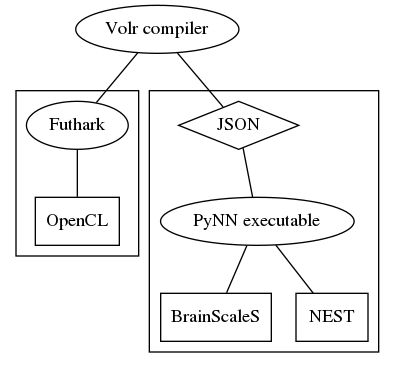
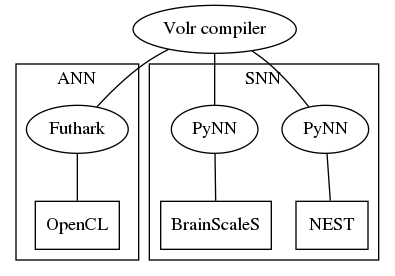
Added notes on implementation and shortened for Martin

diff --git a/report/chapters/volr/implementation.tex b/report/chapters/volr/implementation.tex
@@ -14,11 +14,9 @@ PyNN has been chosen for its general purpose API that translates to both the
 neuromorphic BrainScaleS \index{BrainScaleS} backend and the NEST 
 \index{NEST} simulator.
 \\[0.2cm]
-Figure \ref{fig:volr-architecture} shows flow from the compiler
+Figure \ref{fig:volr-architecture} shows the workflow from the compiler
 down to each backend.
-The following section explains the diagram one component at the time, 
-with a focus on the model semantics are 
-retained throughout each step.
+The following section explains the diagram one component at the time.
 
 \begin{figure}
   \centering
@@ -153,7 +151,8 @@ weight configurations.
 Because of its functional nature, layers can simply be joined 
 sequentially by function composision.
 
-The library has been modified to fit the additions in the thesis.
+The library from \cite{Minh2018} has been modified to fit the
+additions in the thesis.
 In particular, a \textit{replicate} and a \textit{merge} layer has
 been added, to account for the parallel operator ($\ominus$).
 A connection that allows two parallel networks to connect to other
@@ -274,51 +273,142 @@ PyNN is normally configured to work with Python, so converting the
 
 
 \subsection{PyNN backend}
+The interpretation to PyNN\index{PyNN} is done in two steps: a
+conversion from the \gls{DSL} into a \gls{SNN} representation,
+and a translation between that representation into backend-specific
+Python code.
+The steps are decoupled to enforce the same semantics on the code
+generation for the neuromorphic and simulation backends.
+While PyNN is designed as a simulator-dependent \gls{API} 
+it is unlikely that the backends will fully support it in the
+immediate future (see section \ref{sec:SNN-simulators}).
 
+\subsubsection{\gls{SNN} translation step}
+Before Python code for PyNN can be generated a number of assumptions
+has to be met. 
+In particular the types of connections (referred to as projections in PyNN)
+and neuron models has to be described with a full set of neuron parameters.
+The modelling of this happens in yet another Haskell code base.
+The neuron parameters for an example LIF\index{LIF} neuron is seen in listing
+\ref{lst:lif-cond-exp} with their corresponding default values
+below\footnote{
+The current neuron models and their default parameters are taken from PyNN's
+standard models, available at
+\url{http://neuralensemble.org/docs/PyNN/standardmodels.html}.
+}.
 
+\lstset{language=,caption={A LIF neuron with exponential decay and
+  conductance-based synapses, modelled in Haskell.},label=lst:lif-cond-exp}
+\begin{lstlisting}
+data NeuronType =
+    = IFCondExp {
+        _v_rest :: Float, -- ^ resting potential
+        _cm :: Float, -- ^ membrane capacitance
+        _tau_m :: Float, -- ^ membrane time constant
+        _tau_refrac :: Float, -- ^ refractory time
+        _tau_syn_E :: Float, -- ^ excitatory synaptic time constant
+        _tau_syn_I :: Float, -- ^ inhibitory synaptic time constant
+        _e_rev_E :: Float, -- ^ excitatory reversal potential
+        _e_rev_I :: Float, -- ^ inhibitory reversal potential
+        _v_thresh :: Float, -- ^ spike initiation threshold
+        _v_reset :: Float, -- ^ reset value for membrane potential after a spike
+        _i_offset :: Float -- ^ offset current
+    }
 
+if_cond_exp :: NeuronType
+if_cond_exp = IFCondExp {
+    _v_rest = -65.0,
+    _cm = 1.0,
+    _tau_m = 20.0,
+    _tau_refrac = 0.0,
+    _tau_syn_E = 5.0,
+    _tau_syn_I = 5.0,
+    _e_rev_E = 0.0,
+    _e_rev_I = -70.0,
+    _v_thresh = -50.0,
+    _v_reset = -65.0,
+    _i_offset = 0.0
+}
+\end{lstlisting}
 
-% \subsection{Spiking neural network simulations via PyNN} \label{sec:volr-pynn}
-% The Python neural network simulation interface PyNN is designed as a
-% "simulator-independent language for building neuronal network models"
-% \autocite{PyNN2018}.
-% It aims to reduce the problem of diverse, and occasionally unique, descriptions
-% of neural network experiments for different simulation back-ends \autocite{Davison2009}.
-% PyNN has been adapted by a number of simulators, including the NEST simulation
-% platform and the neuromorphic BrainScaleS wafer system
-% \autocite{Davison2009, Helias2012, Schmitt2017}.
+These neuron models form the basis of populations, which is determined by the
+neuron model and the number of neurons in the population.
+Populations can be understood as nodes in the network graph, along with
+spike sources, which generates stimulus per the input data.
+The definition of nodes as either populations or spike sources is shown in
+listing \ref{lst:node}.
 
-% There are still simulator-dependent configurations that seems unlikely to be
-% adopted into PyNN in the immediate future\footnote{
-%   Particularly hardware mapping configurations are hard to abstract in a general
-%   interface.
-% }.
-% For that reason Volr provides simulation-specific PyNN scripts that can
-% interpret the model in the context of each simulation target.
-% A middleware, dubbed \gls{Myelin}, was invented to translate the \gls{NN} model
-% into a static intermediate representation in JSON.
-% The JSON standard was chosen for the task because of its concise syntax while
-% still retaining human readability.
+\lstset{language=,caption=The definition of a node as either a population or a
+spike source.,label=lst:node}
+\begin{lstlisting}
+data Node = Population {
+        _numNeurons :: Integer,
+        _neuronType :: NeuronType
+    }
+    | SpikeSourcePoisson {
+        _rate :: Float,
+        _start :: Integer
+    }
+\end{lstlisting}
+
+The nodes in the spiking graph is connected through edges shown in 
+listing \ref{lst:projection}.
+
+\lstset{language=,caption=The definition of an edge as a projection between
+two nodes with a certain effect.,label=lst:projection}
+\begin{lstlisting}
+data Edge =
+      Projection {
+          _effect :: ProjectionEffect,
+          _input :: Node,
+          _output :: Node
+\end{lstlisting}
+
+The type of the edges are determined by a projection effect that is
+not listed here, but available in appendix \ref{app:implementation}.
+This effect simply describes the connectivity between two nodes---which
+for now is exclusively all-to-all---and the type of the synapses--which
+for now is exclusively constant excitatory weights.
+
+The model here allows us to retain the connection graph from the \gls{DSL}
+description.
+The main difference being the activation functions which changes with the
+neuron types.
+
+\subsubsection{PyNN code generation}
+The final step in the translation of the \gls{DSL} to PyNN code maps the
+\gls{SNN} model from above to executable Python code.
+Similar to the Futhark backend the PyNN API has been augmented to 
+incorporate learning, further described in the section ``Learning in PyNN''.
+Listing \ref{lst:PyNN-MNIST} shows an example of a non-executable MNIST network.
+When activating the input node \texttt{node0} the connections are fed through
+the network to the \texttt{node2} output node.
+Each projection is initiated with random normal distributed weights, similar
+to the Futhark networks.
+
+\lstset{language=,caption={A simple MNIST network in Python from the network in figure
+\ref{fig:volr-examples}. The dots illustrate the neuron parameters, given as a
+dictionary, as they appear in listing
+\ref{lst:lif-cond-exp}.},label=lst:PyNN-MNIST}
+\begin{lstlisting}
+node0 = LearningNode(Population(100, LIFCondExp(), ...))
+node1 = LearningNode(Population(50, LIFCondExp(), ...))
+node2 = LearningNode(Population(10, LIFCondExp(), ...))
+edge0 = Projection(node0, node1, AllToAllConnector())
+edge0.set(weight=numpy.random.normal)
+edge1 = Projection(node1, node2, AllToAllConnector())
+edge1.set(weight=numpy.random.normal)
+\end{lstlisting}
 
 % The advantage of the static experiment representation being, that the experiment
 % easily a) transports to the target PyNN scripts without losing any information,
 % and b) duplexes between several experiment; the same experiment setup is
 % trivial to setup on multiple targets at once.
+\subsubsection{Code header for BrainScaleS} \label{ref:Cairo}
+%Because of the incompatible backends, each code is injected with a  
+%preample to perform the necessary setup steps 
+Describe hardware mappings for BrainScaleS
 
-% The correct execution of the experiments relies on the PyNN scripts to exploit
-% the simulator to represent the Volr model as accurately as possible.
-% Fortunately PyNN is designed to cover exactly such a use case, so properties
-% related to the \gls{NN} models itself (such as network topology and population
-% attributes) were faithfully reproduced across the simulators.
-% However, the simulators deviate in a number of ways that are relevant to
-% mention.
-% The following two sections explains the steps necessary to achieve accurate
-% experiment environments in \gls{NEST} and \gls{BrainScaleS}.
-
-% \subsubsection{Translation to PyNN} \label{sec:volr-translation}
-
-% \subsubsection{Translation to NEST} \label{sec:volr-NEST}
-% ... To be continued ...
-% \subsubsection{Translation to BrainScaleS} \label{sec:volr-BrainScaleS}
-% ... To be continued ...
-\label{ref:Cairo}
+\subsubsection{Learning in PyNN}
+\label{ref:PyNN-augmentation}
+Describe PyNN learning API

diff --git a/report/chapters/volr/volr.tex b/report/chapters/volr/volr.tex
@@ -8,7 +8,7 @@ It focuses solely on the topology of networks, thus
 separating the network description from any generation-specific properties
 of neurons or neuron populations.
 
-The first requirement is achieved through an unambiguous syntax inspired
+The first requirement is met through an unambiguous syntax heavily inspired
 by the lamdba calculus \cite{Pierce2002}.
 Figure \ref{fig:volr-expr} shows the BNF notation for expressions, values and types
 in Volr. 
@@ -21,32 +21,23 @@ interpretation of the expressions.
 The constant expression $n$ is simply an integer that evaluates to the type 
 \texttt{\textbf{int}} ($e1$). 
 Similarly to the lambda calculus, the \texttt{\textbf{let}} binding binds
-the string constant $x$ to the expression $e$ in an encapsulated
-environment $e'$ \cite{Pierce2002}.
+the string constant $x$ to the expression $e$ when evaluating $e'$ \cite{Pierce2002}.
 That constant can later be referenced in the $e'$ expression 
 through the string $x$ as shown in $e2$.
 
-The \texttt{\textbf{dense}} expression describes a network of two
-populations, and is the most basic concept in the \gls{DSL}.
+The \texttt{\textbf{dense}} expression describes a fully connected
+neural network layer with a single population, and is the most basic
+concept in the \gls{DSL}.
 Notice the distinction between a neural network \textit{layer}
 such as \texttt{\textbf{dense}} and a population. 
-In a \texttt{\textbf{dense}} network layer, every neuron from the
-first population is connected to every neuron in the second population
-(\textit{densely} or all-to-all).
-The two parameters $n$ and $m$ defines the number of neurons in the first and 
-second layer respectively, and evaluates to the \texttt{\textbf{net}}
-fundamental network type and value, as shown in $e3$. 
-Considering how each neuron is a type of classifier, these numbers
+A \texttt{\textbf{dense}} network layer can be understood as a single
+population that receives a number of inputs, densely 
+connects these inputs to all neurons in the population with the associated
+weights, and finally outputs the response to the following layer.
+Considering how each neuron is a type of classifier, $n$ and $m$
 illustrate the \textit{dimensionality} of the network, such that the number of
 dimensions in the input is truncated (or expanded) to classify the
 dimensionality of the output layer.
-
-The $\obar$ (sequential) operator binds two networks sequentially,
-such that the output layer of the first network becomes the input layer 
-of the second network.
-The two networks $e$ and $e'$ will share one of the neuron populations, why
-the output size of the first layer is required to be equal to the input
-size of the second layer ($e4$).
 
 The $\ominus$ (parallel) operator parallelises two networks by duplicating
 the input from the previous layer and merging the outputs into a single
@@ -57,7 +48,13 @@ The output from the network is stacked such that each neuron from each
 population corresponds to one output neuron ($e_{out} + e'_{out}$).
 This is done to preserve the meaning of each parallel population.
 
-Semantically the parallel operator the ability for a network
+The $\obar$ (sequential) operator binds two networks sequentially,
+such that the output layer of the first network becomes the input layer 
+of the second network.
+For that reason the output dimensionality of the first network ($m$) should 
+be equal to the input of the second network, as shown in $e4$.
+
+Semantically the parallel operator provides the ability for a network to
 perform specialised functions, based on the same stimulus.
 In the context of neural systems such specialisations are frequently used
 to balance correctness with compactness: it is cheaper in terms of neurons,

diff --git a/report/chapters/dsl.tex b/report/chapters/dsl.tex
@@ -132,7 +132,7 @@ is developed from scratch, because of the degree of specialisation
 This section covers the most important technical details of
 the environments.
 
-\subsubsection{\Gls{SNN} simulators}
+\subsubsection{\Gls{SNN} simulators} \label{sec:SNN-simulators}
 Based on the review of \textcite{Blundell2018} this paper will discuss
 the following third generation \gls{SNN} simulators: PyNN \cite{Davison2009},
 NEST \cite{Gewaltig2007}, NEURON \cite{Carnevale2007},
@@ -141,10 +141,11 @@ Brian \cite{Goodman2013} and Nengo \cite{Eliasmith2015}.
 PyNN is a ``simulator-independent language''
 \cite{PyNN2018} that compiled to both simulated and
 accelerated architectures \cite{Davison2009}.
-Technically PyNN is not a simulator but acts as interface to any third generation
-backend, but currently supports Brian, NEST, BrainScaleS and SpiNNaker.
+Technically PyNN is not a simulator but acts as an interface to any third generation
+backend \cite{Davison2009}.
+PyNN currently supports Brian, NEST, BrainScaleS and SpiNNaker
 \index{Brian}\index{NEST}\index{BrainScaleS}\index{SpiNNaker}
-PyNN is more than 10 years old, \cite{Davison2009} older
+and is more than 10 years old, \cite{Davison2009} older
 than most neuromorphic chips. 
 Their \gls{API}s were designed a priori and lacked a number of crucial
 elements\footnote{In particular in relation to the mapping of neuron population

diff --git a/report/report.tex b/report/report.tex
@@ -13,6 +13,7 @@
 \usepackage{fvextra}
 \usepackage{xpatch}
 \usepackage{amsmath}
+\usepackage{nameref}
 
 % tikz drawing
 \usepackage{tikz}
@@ -180,18 +181,18 @@ Kerem for providing internet.
   \subfile{chapters/introduction}
 
 \chapter{Theory} \label{sec:theory}
-  \subfile{chapters/theory}
+  %\subfile{chapters/theory}
 
 \chapter{A DSL for neural networks modelling} \label{sec:dsl}
   \subfile{chapters/dsl}
 
 \chapter{Experiment} \label{sec:experiment}
-  \subfile{chapters/experiment}
+  %\subfile{chapters/experiment}
 
 \chapter{Analysis} \label{sec:analysis}
-  \section{Futhark}
-  \section{NEST}
-  \section{BrainScaleS}
+  %\section{Futhark}
+  %\section{NEST}
+  %\section{BrainScaleS}
 
 %\chapter{Analysis}
 %  \section{Experiment results}
@@ -210,7 +211,7 @@ Kerem for providing internet.
 \printbibliography
 \printglossary
 \printindex
-
+ 
 \appendix
 \chapter{Volr implementation code} \label{app:implementation}
   \include{appendices/volr}

diff --git a/report/chapters/theory.tex b/report/chapters/theory.tex
@@ -311,12 +311,12 @@ composition of node functions over the input $x$.
   }
 }
 \begin{tikzpicture}
-  \node [value] (input) at (-0.3,0) { $x$ };
+  \node (input) at (-0.3,0) { $x$ };
   \node [node] (node-f) at (1.5,0) { $f$ };
   \node [node] (node-g) at (3,0) { $g$ };
   \node [node] (node-h) at (4.5,0) { $h$ };
-  \node [value] (output) at (6.5,0) { $f(g(h(x)))$ };
-  \draw [->] (value) -- (node-f);
+  \node (output) at (6.5,0) { $f(g(h(x)))$ };
+  \draw [->] (input) -- (node-f);
   \draw [->] (node-f) -- (node-g);
   \draw [->] (node-g) -- (node-h);
   \draw [->] (node-h) -- (output);
